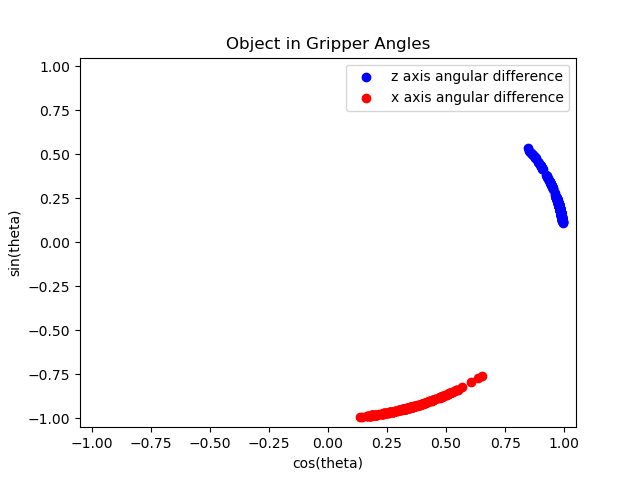
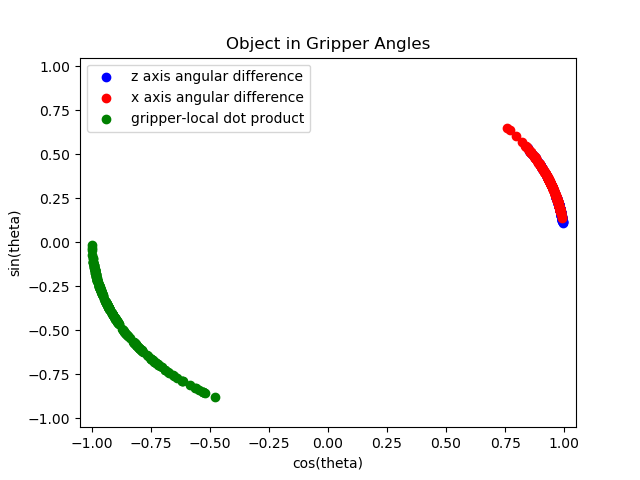
extract and learn world->object angle in gripper frame

diff --git a/learn_placing/processing/preprocess_dataset.py b/learn_placing/processing/preprocess_dataset.py
@@ -6,7 +6,7 @@ from datetime import timedelta
 from learn_placing.common.label_processing import normalize, rotate_v
 
 from learn_placing.common.vecplot import AxesPlot
-from learn_placing.common.transformations import quaternion_conjugate, quaternion_from_matrix, quaternion_matrix, quaternion_multiply, quaternion_inverse, Ry
+from learn_placing.common.transformations import quaternion_conjugate, quaternion_from_matrix, quaternion_matrix, quaternion_multiply, quaternion_inverse, inverse_matrix, Ry
 from learn_placing.common import load_dataset, cam_stats, qO2qdiff, v_from_qdiff, qavg, preprocess_myrmex, extract_gripper_T
 from learn_placing.training.utils import InRot
 
@@ -118,6 +118,13 @@ for dsname in dsnames:
         RwCleanX = Rwg@RcleanX
         RwCleanZ = Rwg@RcleanZ
 
+        Rgw = inverse_matrix(Rwg)
+
+        Zgw = Rgw[:3,:3]@[0,0,1]
+        Zgc = RcleanX@[0,0,1,1]
+
+        local_dotp = np.arccos(np.dot(Zgw, Zgc[:3]))
+
         # axp = AxesPlot()
 
         # published gripper to object transform VS the one we calculated based on tf msgs
@@ -149,6 +156,7 @@ for dsname in dsnames:
                 InRot.g2o: qGO,
                 InRot.gripper_angle: gripper_angle,
                 InRot.gripper_angle_x: gripper_angle_x,
+                InRot.local_dotp: local_dotp,
                 "vec": finalv,
                 "angle": angle,
             }

diff --git a/learn_placing/analysis/plot_grasp_frame_angles.py b/learn_placing/analysis/plot_grasp_frame_angles.py
@@ -11,6 +11,7 @@ ds = load_dataset_file(dataset_file_path)
 
 z_angles = [d[InRot.gripper_angle] for d in list(ds["labels"].values())]
 x_angles = [d[InRot.gripper_angle_x] for d in list(ds["labels"].values())]
+local_dot = [d[InRot.local_dotp] for d in list(ds["labels"].values())]
 
 minz = np.min(z_angles)
 maxz = np.max(z_angles)
@@ -20,11 +21,17 @@ minx = np.min(x_angles)
 maxx = np.max(x_angles)
 print("x", minx, maxx, np.rad2deg(minx), np.rad2deg(maxx),  np.rad2deg(maxx)-np.rad2deg(minx))
 
+mind = np.min(local_dot)
+maxd = np.max(local_dot)
+print("dot", mind, maxd, np.rad2deg(mind), np.rad2deg(maxd),  np.rad2deg(maxd)-np.rad2deg(mind))
+
 z_angles = np.array([[np.cos(za), np.sin(za)] for za in z_angles])
 x_angles = np.array([[np.cos(xa), np.sin(xa)] for xa in x_angles])
+dot_angles = np.array([[-np.cos(xa), -np.sin(xa)] for xa in local_dot])
 
 plt.scatter(z_angles[:,0], z_angles[:,1], color="blue", label="z axis angular difference")
 plt.scatter(x_angles[:,0], x_angles[:,1], color="red", label="x axis angular difference")
+plt.scatter(dot_angles[:,0], dot_angles[:,1], color="green", label="gripper-local dot product")
 
 plt.xlim([-1.05, 1.05])
 plt.ylim([-1.05, 1.05])

diff --git a/learn_placing/analysis/extract_gripper_rot.py b/learn_placing/analysis/extract_gripper_rot.py
@@ -79,6 +79,15 @@ for i, (stamp, label) in enumerate(os["labels"].items()):
     RwCleanX = Rwg@RcleanX
     RwCleanZ = Rwg@RcleanZ
 
+    Rgw = inverse_matrix(Rwg)
+
+    Zgw = Rgw[:3,:3]@[0,0,1]
+    Zgc = RcleanX@[0,0,1,1]
+
+    local_angle = np.arccos(np.dot(Zgw, Zgc[:3]))
+    print(local_angle)
+    print()
+
     # eulers = euler_from_matrix(Rgo, "syxz")
 
     # xNorm = normalize([xO[0], xO[2]])
@@ -117,9 +126,6 @@ for i, (stamp, label) in enumerate(os["labels"].items()):
     # zExp = Rexp2@[0,0,1,1]
 
     # print(np.arctan2(xExp[2], xExp[0]), np.arctan2(-zExp[0], zExp[2]))
-
-
-    Rgw = inverse_matrix(T)
 
     rospy.init_node("tf_rebroadcast")
     r = rospy.Rate(5)
@@ -175,6 +181,12 @@ for i, (stamp, label) in enumerate(os["labels"].items()):
                 quaternion_from_matrix(RwCleanZ),
                 "world_clean_Z",
                 "base_footprint"
+            )
+            broadcast(
+                [0,0,0],
+                quaternion_from_matrix(Rgw),
+                "grasped_world",
+                "gripper_grasping_frame"
             )
             for tr in t:
                 broadcast(

diff --git a/learn_placing/training/train_model.py b/learn_placing/training/train_model.py
@@ -19,11 +19,11 @@ from tactile_insertion_rl import TactileInsertionRLNet
 """
 a = AttrDict(
     dsname = DatasetName.cuboid,
-    out_repr = RotRepr.ortho6d,
-    target_type = InRot.w2cleanX,
-    input_data = InData.with_tap,
-    with_gripper_tf = True,
-    N_episodes = 50,
+    out_repr = RotRepr.sincos,
+    target_type = InRot.local_dotp,
+    input_data = InData.static,
+    with_gripper_tf = False,
+    N_episodes = 10,
     validate = False,
     store_training = True,
     gripper_repr = RotRepr.quat,
@@ -129,8 +129,8 @@ plt.figure(figsize=(8.71, 6.61))
 lastN = int(len(train_losses)*0.05)
 
 xs = np.arange(len(test_losses)).astype(int)+1
-plt.plot(xs, train_losses, label=f"training loss | {np.mean(train_losses[-lastN:])}")
-plt.plot(xs, test_losses, label=f"test loss | {np.mean(test_losses[-lastN:])}")
+plt.plot(xs, train_losses, label=f"training loss | {np.mean(train_losses[-lastN:]):.5f}")
+plt.plot(xs, test_losses, label=f"test loss | {np.mean(test_losses[-lastN:]):.5f}")
 if a.validate: plt.plot(xs, val_losses, label=f"validation loss - {np.mean(val_losses[-lastN:])}")
 
 if a.out_repr == RotRepr.ortho6d:

diff --git a/learn_placing/training/utils.py b/learn_placing/training/utils.py
@@ -30,6 +30,7 @@ class InRot(str, Enum):
     gripper_angle_x = "gripper_angle_x"
     w2cleanX = "world2object_cleanX"
     w2cleanZ = "world2object_cleanZ"
+    local_dotp = "local_dotproduct"
 
 class InData(str, Enum):
     with_tap = "inputs"
@@ -129,7 +130,7 @@ def test_net(model, crit, dataset):
             labels.append(lbls.numpy())
             grip_rots.append(grip.numpy())
     model.train()
-    return np.concatenate(outputs, axis=0), np.concatenate(labels, axis=0), np.concatenate(losses, axis=1), np.concatenate(grip_rots, axis=0)
+    return np.concatenate(outputs, axis=0), np.concatenate(labels, axis=0), np.concatenate(losses, axis=0), np.concatenate(grip_rots, axis=0)
 
 def wrap_torch_fn(fn, *args, **kwargs):
     """ receives torch function and args as np array,
